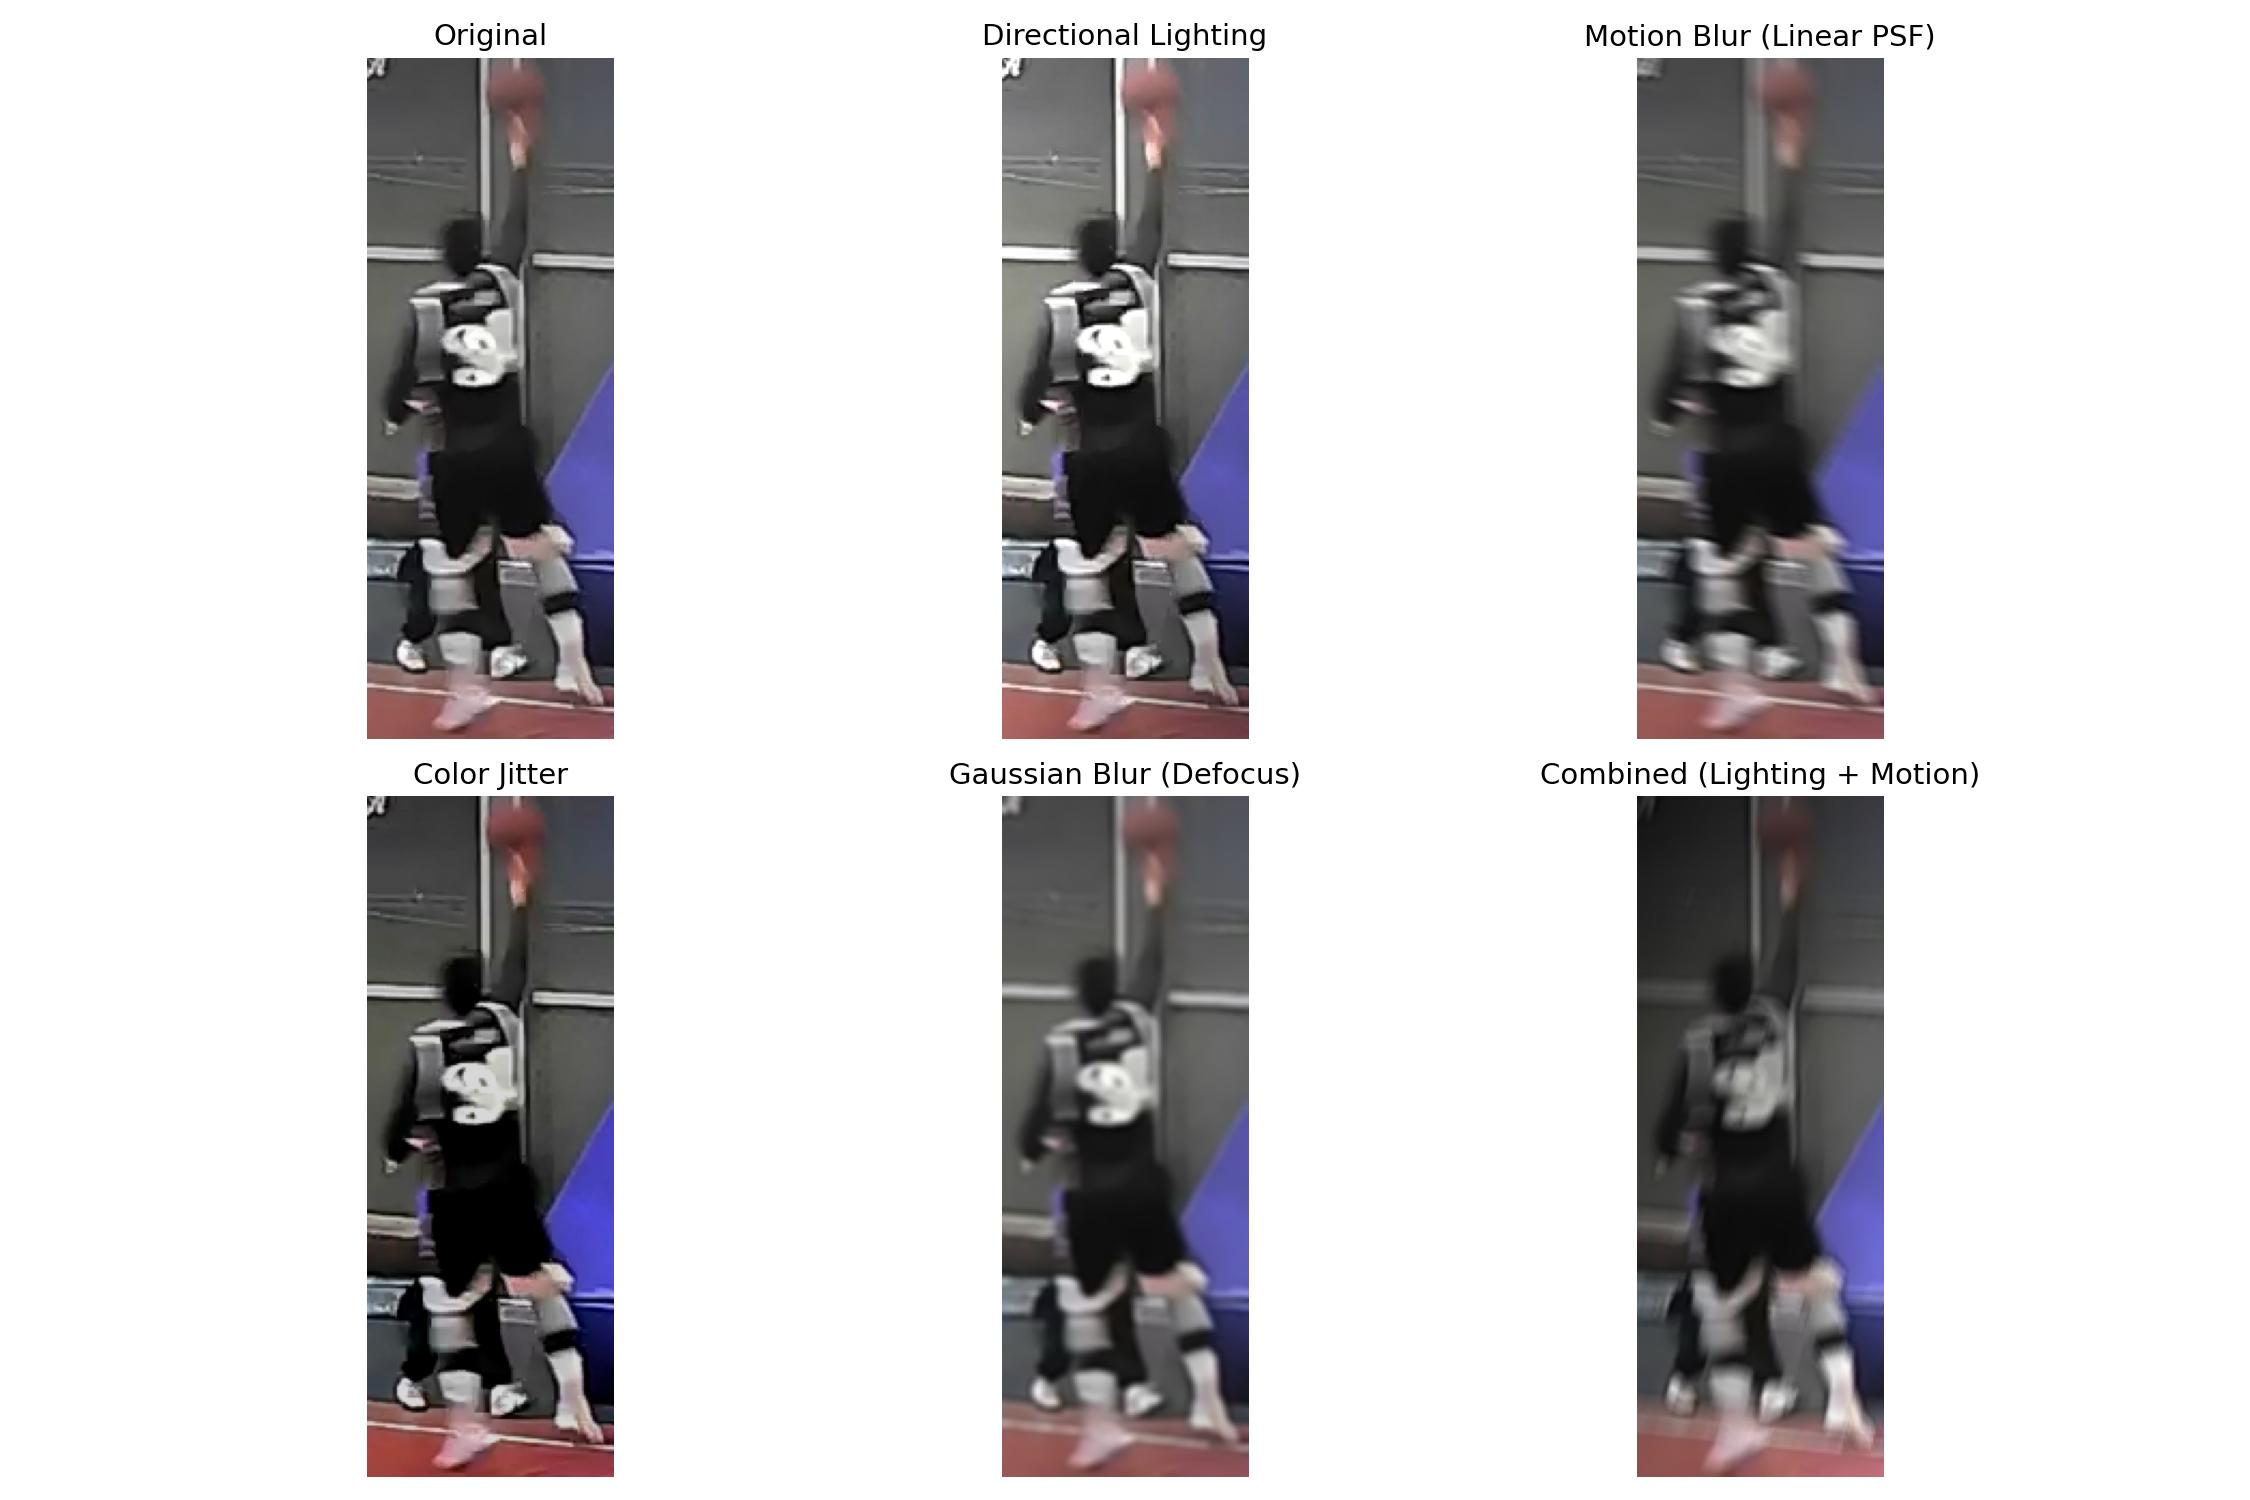
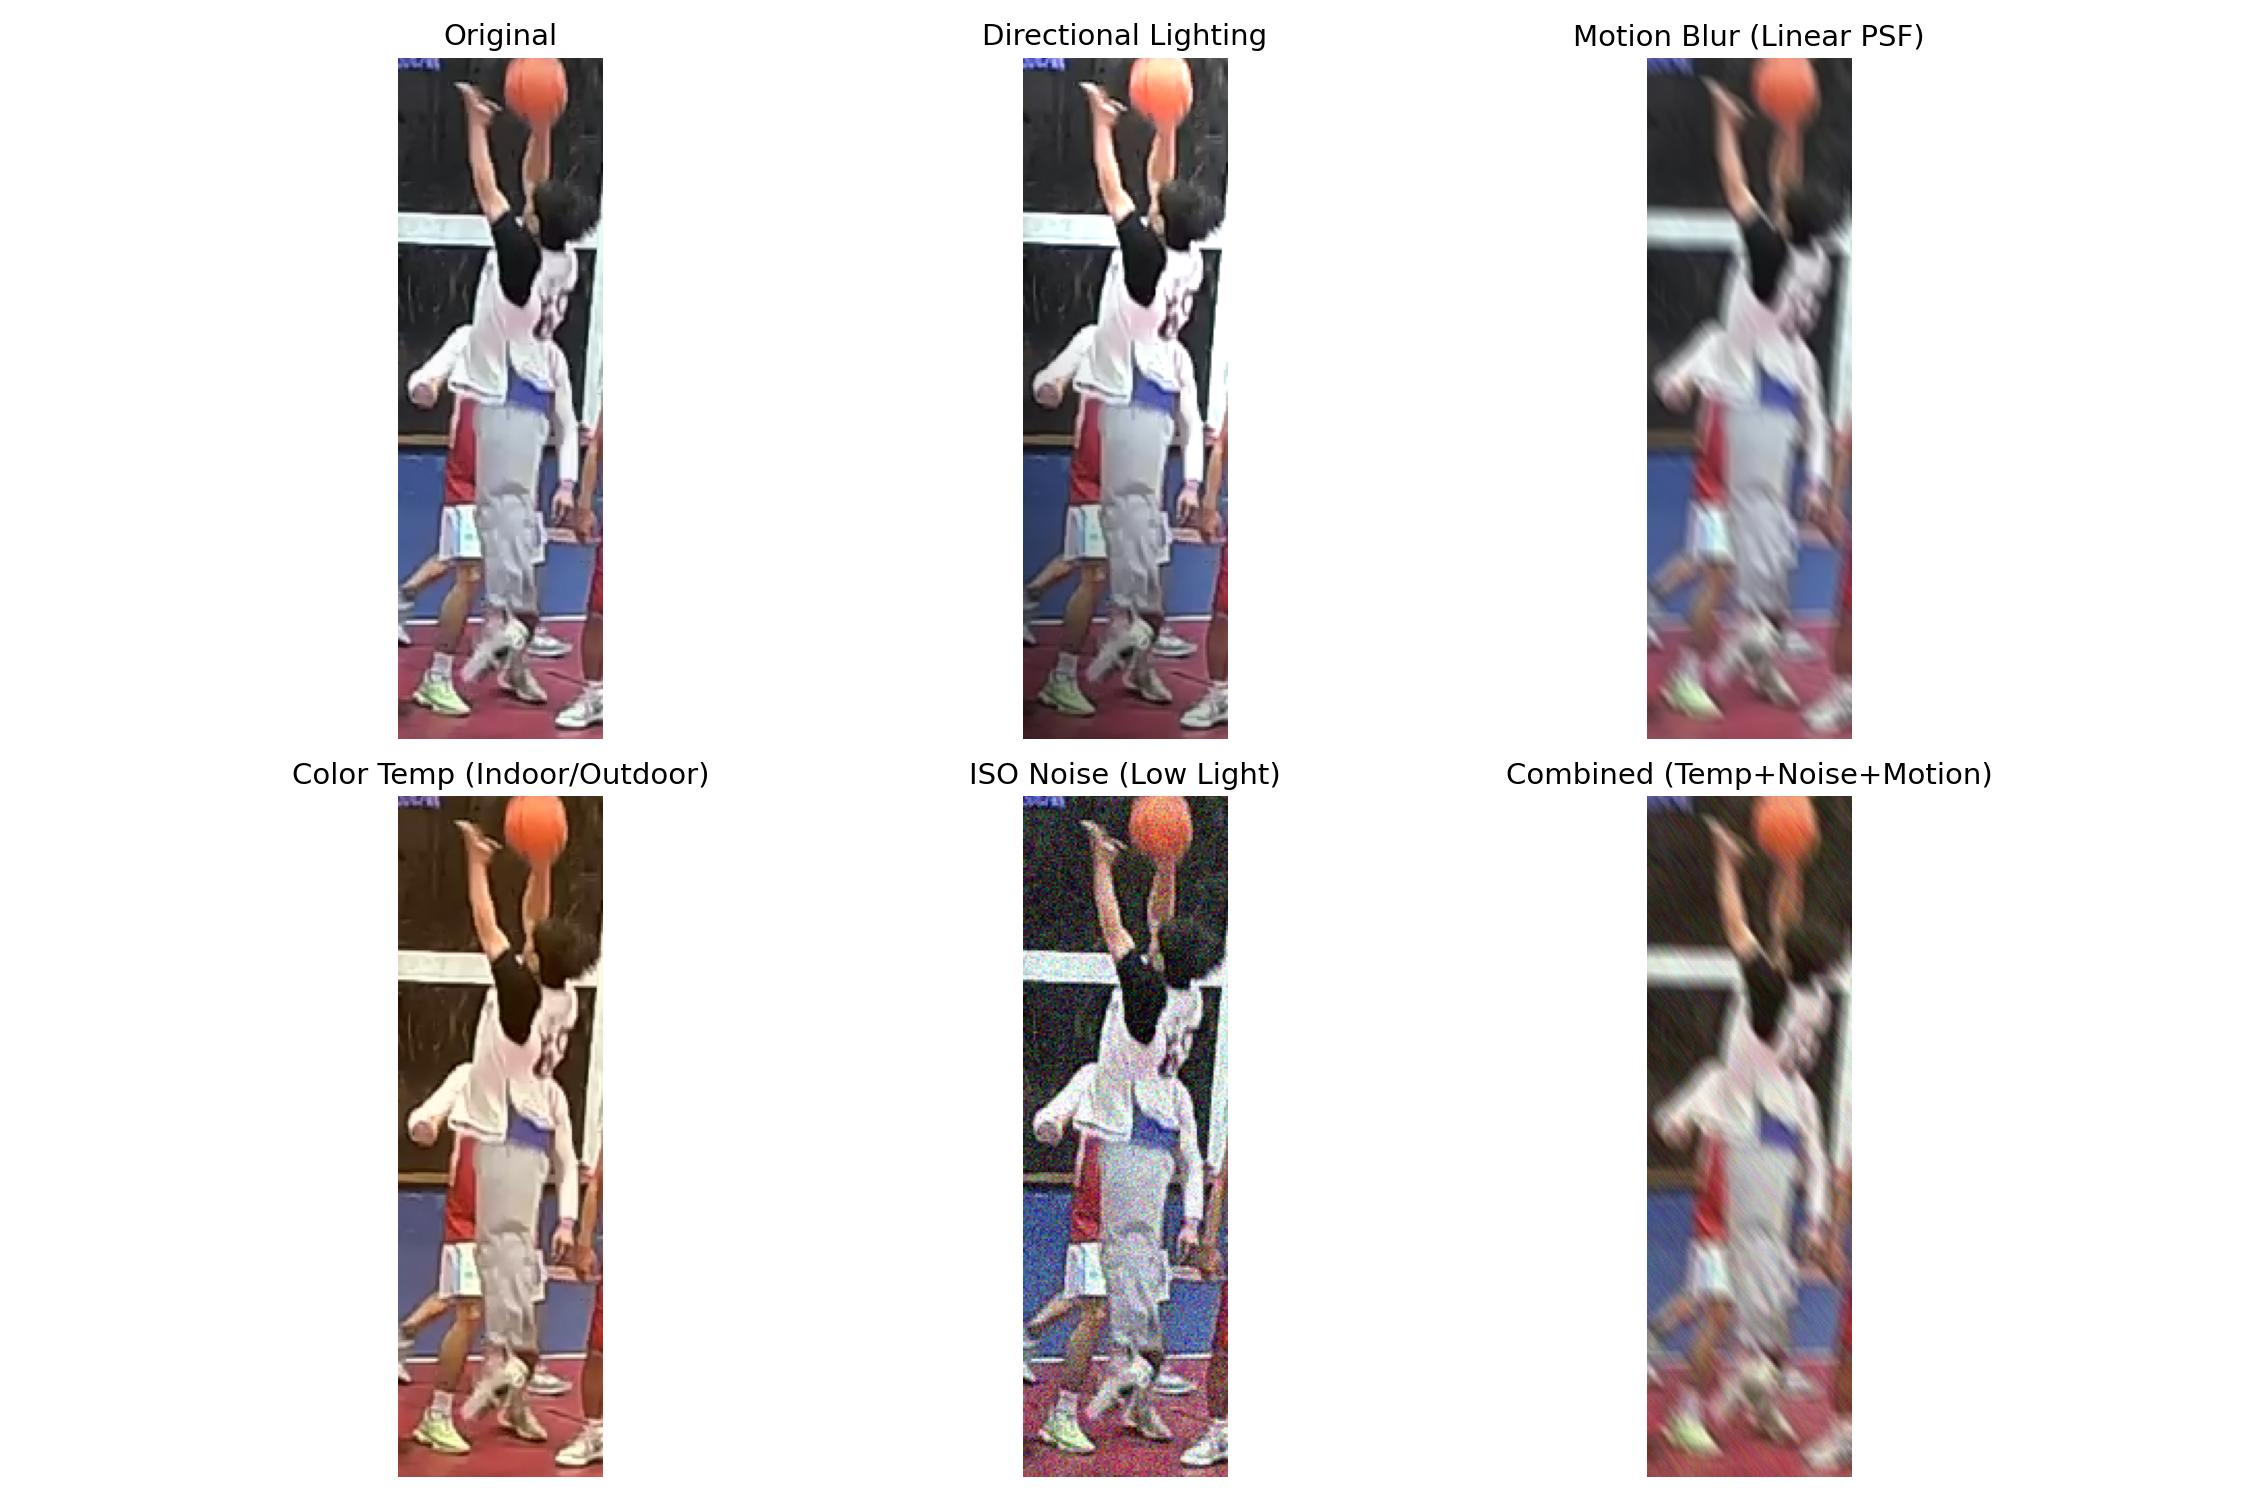
色温和ISO噪声数据增强。用于适应室内外场景

Changed region(s): [[0.6844, 0.0, 0.8711, 1.0], [0.1244, 0.0, 0.3111, 1.0], [0.4356, 0.0307, 0.5911, 1.0]]

diff --git a/visualize_aug.py b/visualize_aug.py
@@ -8,7 +8,7 @@ import torchvision.transforms as T
 import sys
 sys.path.append(os.path.dirname(os.path.abspath(__file__)))
 
-from datasets.preprocessing import RandomMotionBlur, RandomDirectionalLighting
+from datasets.preprocessing import RandomMotionBlur, RandomDirectionalLighting, RandomColorTemperature, RandomISONoise
 
 def visualize_augmentations():
     data_dir = 'data/BallShow/bounding_box_train'
@@ -22,28 +22,26 @@ def visualize_augmentations():
         return
         
     # Get a random image
-    # We will pick the first one basically or random
     img_path = os.path.join(data_dir, random.choice(img_names))
     orig_img = Image.open(img_path).convert('RGB')
     
-    # Initialize our transforms with Probability = 1.0 so we ALWAYS see the effect
+    # Initialize our transforms with Probability = 1.0
     lighting_aug = RandomDirectionalLighting(probability=1.0, intensity_range=(0.4, 0.8))
     motion_blur_aug = RandomMotionBlur(probability=1.0, kernel_sizes=[9, 11, 15], angle_range=(0, 360))
-    color_jitter_aug = T.ColorJitter(brightness=0.5, contrast=0.5, saturation=0.5, hue=0.0)
-    gaussian_blur_aug = T.GaussianBlur(kernel_size=5, sigma=(1.0, 2.0))
+    color_temp_aug = RandomColorTemperature(probability=1.0, shift_range=40)
+    iso_noise_aug = RandomISONoise(probability=1.0, intensity_range=(20.0, 35.0))
     
     print(f"Processing image: {img_path}")
     
     # Apply augmentations (generate different versions)
     img_lighting = lighting_aug(orig_img)
     img_motion_blur = motion_blur_aug(orig_img)
-    img_color_jitter = color_jitter_aug(orig_img)
-    # T.GaussianBlur doesn't have probability parameter, it's just applied directly
-    img_gaussian_blur = gaussian_blur_aug(orig_img)
+    img_color_temp = color_temp_aug(orig_img)
+    img_iso_noise = iso_noise_aug(orig_img)
 
-    # We will also create a "Combined Enhanced" which might look crazy but shows the max capability
-    # Let's just combine Lighting + Motion Blur
-    img_combined = motion_blur_aug(lighting_aug(orig_img))
+    # Combined Enhanced for extreme simulation
+    # Noise + Motion Blur + Color Temp
+    img_combined = motion_blur_aug(iso_noise_aug(color_temp_aug(orig_img)))
 
     # Plot everything
     fig, axes = plt.subplots(2, 3, figsize=(15, 10))
@@ -53,9 +51,9 @@ def visualize_augmentations():
         ("Original", orig_img),
         ("Directional Lighting", img_lighting),
         ("Motion Blur (Linear PSF)", img_motion_blur),
-        ("Color Jitter", img_color_jitter),
-        ("Gaussian Blur (Defocus)", img_gaussian_blur),
-        ("Combined (Lighting + Motion)", img_combined)
+        ("Color Temp (Indoor/Outdoor)", img_color_temp),
+        ("ISO Noise (Low Light)", img_iso_noise),
+        ("Combined (Temp+Noise+Motion)", img_combined)
     ]
     
     for ax, (title, img) in zip(axes, images):

diff --git a/datasets/preprocessing.py b/datasets/preprocessing.py
@@ -153,3 +153,62 @@ class RandomDirectionalLighting(object):
         if is_pil:
             return Image.fromarray(img_np)
         return img_np
+
+class RandomColorTemperature(object):
+    """ Simulates indoor vs outdoor lighting by randomly shifting color temperature (warm vs cold).
+    Indoor lights (halogen/sodium) are warm (orange/yellow).
+    Outdoor lights (daylight) are cold (blue/white).
+    """
+    def __init__(self, probability=0.5, shift_range=30):
+        self.probability = probability
+        self.shift_range = shift_range
+
+    def __call__(self, img):
+        import random, numpy as np
+        if random.uniform(0, 1) >= self.probability:
+            return img
+            
+        is_pil = isinstance(img, Image.Image)
+        img_np = np.array(img).astype(np.float32) if is_pil else img.astype(np.float32)
+        
+        if len(img_np.shape) != 3 or img_np.shape[2] != 3:
+            return img # Only apply to RGB
+
+        # Shift: positive means warmer (more R, less B), negative means cooler (less R, more B)
+        shift = random.uniform(-self.shift_range, self.shift_range)
+        
+        img_np[:, :, 0] += shift # Red
+        img_np[:, :, 2] -= shift # Blue
+        
+        img_np = np.clip(img_np, 0, 255).astype(np.uint8)
+        
+        if is_pil:
+            return Image.fromarray(img_np)
+        return img_np
+
+
+class RandomISONoise(object):
+    """ Simulates high ISO noise often seen in indoor sports photography due to low light and high shutter speeds.
+    """
+    def __init__(self, probability=0.5, intensity_range=(10.0, 25.0)):
+        self.probability = probability
+        self.intensity_range = intensity_range
+
+    def __call__(self, img):
+        import random, numpy as np
+        if random.uniform(0, 1) >= self.probability:
+            return img
+            
+        is_pil = isinstance(img, Image.Image)
+        img_np = np.array(img).astype(np.float32) if is_pil else img.astype(np.float32)
+        
+        sigma = random.uniform(self.intensity_range[0], self.intensity_range[1])
+        noise = np.random.normal(0, sigma, img_np.shape)
+        
+        img_np = img_np + noise
+        img_np = np.clip(img_np, 0, 255).astype(np.uint8)
+        
+        if is_pil:
+            return Image.fromarray(img_np)
+        return img_np
+

diff --git a/datasets/make_dataloader.py b/datasets/make_dataloader.py
@@ -7,7 +7,7 @@ from timm.data.random_erasing import RandomErasing
 from .sampler import RandomIdentitySampler
 from .sampler_ddp import RandomIdentitySampler_DDP
 from .ballshow import BallShow
-from .preprocessing import RandomMotionBlur, RandomDirectionalLighting
+from .preprocessing import RandomMotionBlur, RandomDirectionalLighting, RandomColorTemperature, RandomISONoise
 
 __factory = {
     'ballshow': BallShow,
@@ -37,10 +37,13 @@ def make_dataloader(cfg):
         T.RandomCrop(cfg.INPUT.SIZE_TRAIN),
     ]
 
-    # Environmental changes: Color Jitter / Random Directional Lighting
+    # Environmental changes: Color Jitter / Random Directional Lighting / Indoor-Outdoor Specifics
     if hasattr(cfg.INPUT, 'CJ_PROB') and cfg.INPUT.CJ_PROB > 0:
         train_transforms_list.append(T.RandomApply([T.ColorJitter(brightness=0.3, contrast=0.3, saturation=0.3, hue=0.0)], p=cfg.INPUT.CJ_PROB))
         train_transforms_list.append(RandomDirectionalLighting(probability=cfg.INPUT.CJ_PROB * 0.5))
+        # Add indoor/outdoor specific transforms
+        train_transforms_list.append(RandomColorTemperature(probability=cfg.INPUT.CJ_PROB * 0.5, shift_range=30))
+        train_transforms_list.append(RandomISONoise(probability=cfg.INPUT.CJ_PROB * 0.5, intensity_range=(10.0, 25.0)))
     
     # Blur: Motion Blur and Defocus Blur (GaussianBlur)
     if hasattr(cfg.INPUT, 'MB_PROB') and cfg.INPUT.MB_PROB > 0:
